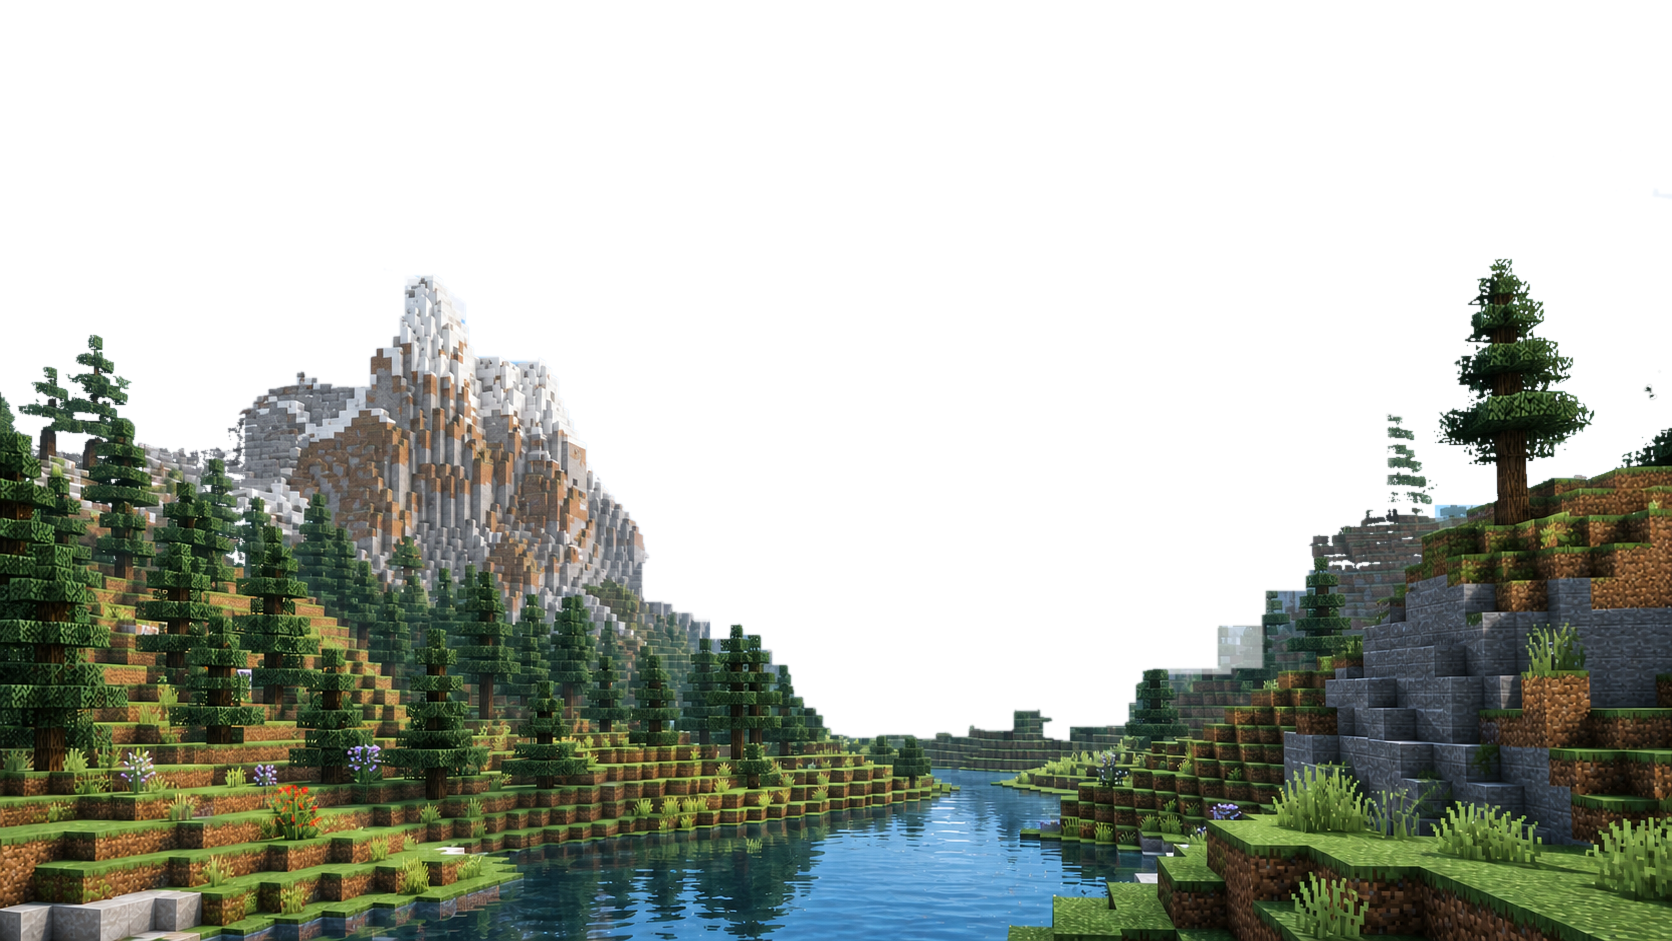
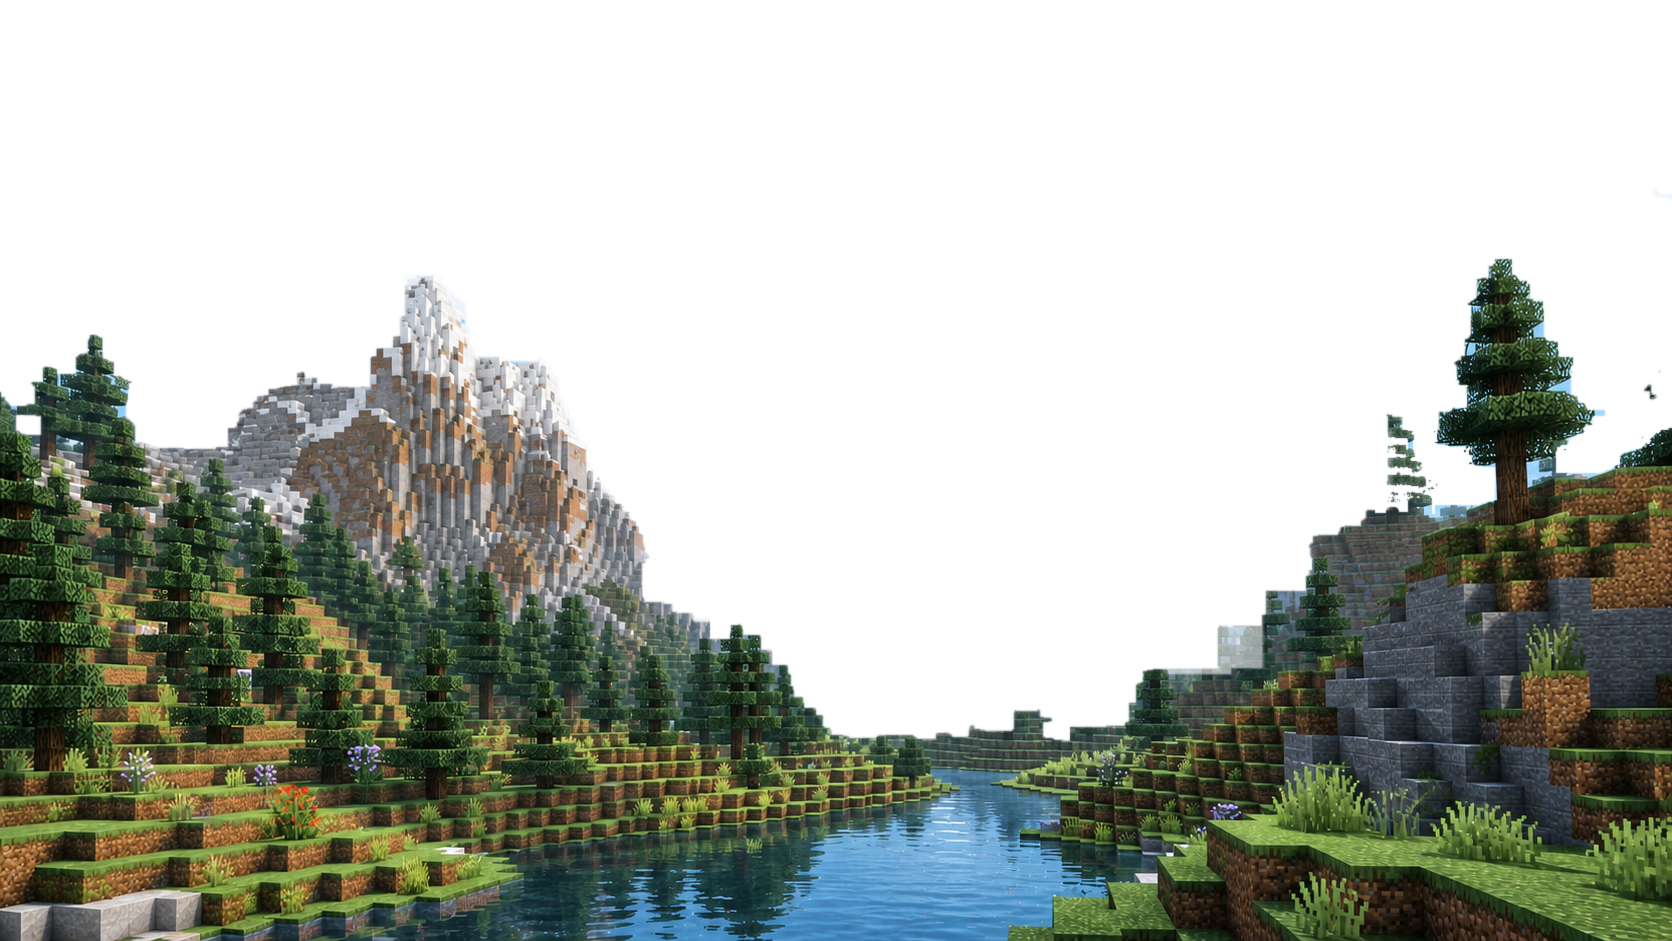
Refine mobile layout and shared terrain occlusion

diff --git a/public/assets/styles.css b/public/assets/styles.css
@@ -3564,6 +3564,22 @@ h1,h2,h3,
   .discord-avatars img{width:30px;height:30px}
 }
 
+@media(max-width:780px){
+  .mobile-nav-overlay .mobile-nav-panel{
+    --mobile-nav-panel-space:22px;
+    padding:var(--mobile-nav-panel-space);
+  }
+  .mobile-nav-panel .mobile-nav-close{
+    top:var(--mobile-nav-panel-space);
+    right:var(--mobile-nav-panel-space);
+    min-height:38px;
+    padding:7px 11px;
+  }
+  .mobile-nav-panel .mobile-nav-kicker{margin-right:92px}
+}
+
+@media(max-width:380px){.mobile-nav-panel{--mobile-nav-panel-space:18px}}
+
 /* Scroll-driven cinematic world experiment */
 .world-effects.cinematic-world{
   background-image:linear-gradient(180deg,var(--scene-edge-top,#429dd6),var(--scene-edge-mid,#66b5db) 52%,var(--scene-edge-bottom,#18372f));
@@ -3773,8 +3789,8 @@ body:not(.home-page) .subhero::after{background:linear-gradient(0deg,rgba(12,8,8
 .is-sun-idle .cinematic-sun .cinematic-orb-disc{animation:cinematic-sun-idle 6.5s ease-in-out infinite}
 
 .scene-debug-svg,.scene-debug-terrain,.scene-debug-sky{position:absolute;inset:0;width:100%;height:100%;z-index:8;pointer-events:none}
-.scene-debug-terrain{background:rgba(255,0,170,.24);-webkit-mask:url("minecraft-terrain-mask-v1.png?v=6") center/100% 100% no-repeat;mask:url("minecraft-terrain-mask-v1.png?v=6") center/100% 100% no-repeat}
-.scene-debug-sky{background:rgba(0,255,255,.28);-webkit-mask:url("minecraft-sky-mask-v1.png?v=6") center/100% 100% no-repeat;mask:url("minecraft-sky-mask-v1.png?v=6") center/100% 100% no-repeat}
+.scene-debug-terrain{background:rgba(255,0,170,.24);-webkit-mask:url("minecraft-terrain-mask-v1.png?v=7") center/100% 100% no-repeat;mask:url("minecraft-terrain-mask-v1.png?v=7") center/100% 100% no-repeat}
+.scene-debug-sky{background:rgba(0,255,255,.28);-webkit-mask:url("minecraft-sky-mask-v1.png?v=7") center/100% 100% no-repeat;mask:url("minecraft-sky-mask-v1.png?v=7") center/100% 100% no-repeat}
 .scene-debug-svg{overflow:visible;border:3px solid #00ffbb}
 .scene-debug-svg path{fill:none;stroke-width:5;stroke-dasharray:14 9}
 .debug-sun-path{stroke:#ffdf42}.debug-moon-path{stroke:#8fe5ff}
@@ -4032,6 +4048,165 @@ body:not(.home-page) .subhero::after{background:linear-gradient(0deg,rgba(12,8,8
 
 @media(prefers-reduced-motion:reduce){
   .cinematic-terrain,.cinematic-sunrise-terrain,.cinematic-sunset-terrain,.cinematic-night-terrain{transition:none}
+}
+
+/* Targeted mobile layout and summary-card interaction pass. */
+.summary-interactive,
+.showcase-panel.summary-interactive{
+  transform:none;
+  transition:transform .18s ease,border-color .18s ease,box-shadow .18s ease,background-color .18s ease;
+}
+
+.summary-interactive:focus-visible{
+  outline:2px solid #ff9a3b;
+  outline-offset:3px;
+  transform:translateY(-8px) scale(1.01);
+  border-color:rgba(255,211,106,.42);
+  box-shadow:0 24px 56px rgba(0,0,0,.34),0 0 28px rgba(255,138,0,.12);
+}
+
+@media(hover:hover) and (pointer:fine){
+  .summary-interactive:hover,
+  .showcase-panel.summary-interactive.is-raised:hover{
+    transform:translateY(-8px) scale(1.01);
+    border-color:rgba(255,211,106,.42);
+    box-shadow:0 24px 56px rgba(0,0,0,.34),0 0 28px rgba(255,138,0,.12);
+  }
+}
+
+@media(hover:none), (pointer:coarse){
+  .summary-interactive:hover,
+  .showcase-panel.summary-interactive.is-raised:hover{transform:none}
+}
+
+@media(max-width:780px){
+  :root{--mobile-action-bar-height:60px;--mobile-nav-panel-space:22px}
+
+  body.home-page{padding-bottom:0}
+
+  .home-page .site-header{
+    opacity:1;
+    pointer-events:auto;
+    padding-top:env(safe-area-inset-top);
+    background:linear-gradient(180deg,rgba(3,7,13,.58),rgba(3,7,13,.12));
+    backdrop-filter:blur(5px);
+  }
+
+  .home-page.is-past-deck .site-header{
+    background:rgba(8,10,15,.88);
+    backdrop-filter:blur(16px);
+  }
+
+  .home-page .site-header .nav-toggle{display:block}
+
+  .home-page .cinematic-hero-inner{
+    min-height:100dvh;
+    align-items:flex-start;
+    padding-top:calc(env(safe-area-inset-top) + 88px);
+    padding-bottom:calc(var(--mobile-action-bar-height) + env(safe-area-inset-bottom) + 26px);
+  }
+
+  .home-page .cinematic-hero-copy{margin-block:0 auto}
+
+  .home-page .live-status{
+    grid-template-columns:minmax(0,1fr) minmax(0,1fr);
+    gap:10px;
+  }
+
+  .home-page .live-ip-card,
+  .home-page .version-card{grid-column:1/-1}
+  .home-page .status-card{min-width:0;padding:14px}
+  .home-page .status-ip{white-space:normal;overflow-wrap:anywhere;font-size:1.38rem}
+  .home-page .version-card .status-value{white-space:normal;font-size:1.35rem}
+  .home-page .status-label{font-size:.7rem;line-height:1.25}
+  .home-page .status-badge{min-width:0;width:100%;padding-inline:8px}
+  .home-page .status-meta{display:flex;align-items:center;justify-content:space-between;gap:12px;flex-wrap:wrap}
+
+  .home-community-panel .discord-avatars{
+    display:grid;
+    grid-template-columns:repeat(6,minmax(0,1fr));
+    gap:8px;
+    max-height:none;
+    overflow:visible;
+  }
+
+  .home-community-panel .discord-avatars img{
+    width:100%;
+    height:auto;
+    aspect-ratio:1;
+    object-fit:cover;
+  }
+
+  .home-community-panel .discord-avatars img:nth-child(n+13){display:none}
+
+  body.about-page .side-rail{display:none}
+  body.about-page .article-layout{grid-template-columns:1fr}
+
+  .mobile-nav-panel{
+    --mobile-nav-panel-space:22px;
+    padding:var(--mobile-nav-panel-space);
+  }
+
+  .mobile-nav-close{
+    top:var(--mobile-nav-panel-space);
+    right:var(--mobile-nav-panel-space);
+    min-height:38px;
+    padding:7px 11px;
+  }
+
+  .mobile-nav-kicker{margin-right:92px}
+  .mobile-nav-external-actions{
+    display:grid;
+    grid-template-columns:1fr 1fr;
+    gap:9px;
+    margin-top:16px;
+    padding-top:15px;
+    border-top:1px solid rgba(255,255,255,.1);
+  }
+
+  .mobile-nav-external-actions a{
+    display:flex;
+    min-height:43px;
+    flex-direction:column;
+    align-items:center;
+    justify-content:center;
+    gap:2px;
+    padding:8px 11px;
+    border:1px solid rgba(255,255,255,.14);
+    border-radius:9px;
+    color:#fff;
+    font-weight:850;
+    text-decoration:none;
+  }
+
+  .mobile-nav-external-actions small{font-size:.58rem;letter-spacing:.08em;text-transform:uppercase;opacity:.67}
+  .mobile-nav-external-actions .mobile-nav-store{border-color:rgba(255,138,32,.42);background:rgba(255,112,24,.14)}
+  .mobile-nav-external-actions .mobile-nav-discord{border-color:rgba(126,139,255,.42);background:rgba(88,101,242,.16)}
+
+  .home-page .site-footer{
+    margin-bottom:0;
+    padding-bottom:calc(var(--mobile-action-bar-height) + env(safe-area-inset-bottom));
+    background:#050c08;
+  }
+
+  .home-page .mobile-join-bar{min-height:calc(var(--mobile-action-bar-height) + env(safe-area-inset-bottom));background:#050c08}
+}
+
+@media(max-width:620px) and (orientation:portrait){
+  .home-page .cinematic-hero-inner{padding-top:calc(env(safe-area-inset-top) + 78px)}
+  .home-page .cinematic-logo{margin-bottom:14px}
+  .home-page .cinematic-hero-copy h1{margin-top:14px;margin-bottom:14px}
+  .home-page .cinematic-hero-copy .lead{margin-bottom:18px}
+  .home-page .scroll-cue{margin-top:14px}
+}
+
+@media(max-width:380px){
+  .home-page .cinematic-hero-inner{padding-top:calc(env(safe-area-inset-top) + 72px)}
+  .mobile-nav-panel{--mobile-nav-panel-space:18px}
+}
+
+@media(prefers-reduced-motion:reduce){
+  .summary-interactive{transition:none}
 }
 
 /* Stable mobile navigation and informational-page header */

diff --git a/public/assets/script.js b/public/assets/script.js
@@ -285,6 +285,9 @@ function initMobileNavigation() {
   mainTitle.textContent = "Menu";
   const mainLinks = document.createElement("div");
   mainLinks.className = "mobile-nav-links";
+  const externalActions = document.createElement("div");
+  externalActions.className = "mobile-nav-external-actions";
+  externalActions.setAttribute("aria-label", "External links");
 
   const communityPanel = document.createElement("div");
   communityPanel.className = "mobile-nav-view mobile-nav-community";
@@ -308,7 +311,17 @@ function initMobileNavigation() {
 
   [...nav.children].forEach((item) => {
     if (item.matches("a")) {
-      mainLinks.append(cloneLink(item));
+      const clonedLink = cloneLink(item);
+      const target = item.dataset.linkTarget;
+      if (target === "store" || target === "discord") {
+        clonedLink.classList.add(`mobile-nav-${target}`);
+        const externalLabel = document.createElement("small");
+        externalLabel.textContent = "External ↗";
+        clonedLink.append(externalLabel);
+        externalActions.append(clonedLink);
+      } else {
+        mainLinks.append(clonedLink);
+      }
       return;
     }
     if (!item.matches(".nav-dropdown")) return;
@@ -321,7 +334,7 @@ function initMobileNavigation() {
     item.querySelectorAll(".nav-menu a").forEach((link) => communityLinks.append(cloneLink(link)));
   });
 
-  mainPanel.append(mainTitle, mainLinks);
+  mainPanel.append(mainTitle, mainLinks, externalActions);
   communityPanel.append(backButton, communityTitle, communityLinks);
   panel.append(closeButton, mainPanel, communityPanel);
   overlay.append(panel);
@@ -1597,7 +1610,7 @@ function initWorldEffects() {
   const foregrounds = Object.fromEntries(sceneDefinitions.map(([name]) => {
     const image = document.createElement("img");
     image.className = `cinematic-foreground cinematic-foreground-${name}`;
-    image.src = `assets/minecraft-terrain-foreground-${name}-v1.png?v=6`;
+    image.src = `assets/minecraft-terrain-foreground-${name}-v1.png?v=7`;
     image.alt = "";
     image.decoding = "async";
     return [name, image];

diff --git a/public/plugins.html b/public/plugins.html
@@ -10,7 +10,7 @@
   <link rel="preconnect" href="https://fonts.googleapis.com" />
   <link rel="preconnect" href="https://fonts.gstatic.com" crossorigin />
   <link href="https://fonts.googleapis.com/css2?family=Inter:wght@400;500;650;800;900&display=swap" rel="stylesheet" />
-  <link rel="stylesheet" href="assets/styles.css?v=vision56" />
+  <link rel="stylesheet" href="assets/styles.css?v=vision58" />
 </head>
 <body class="about-page">
 <a class="skip-link" href="#main-content">Skip to main content</a>
@@ -69,17 +69,17 @@
 
   <section class="page-section about-showcase-section" aria-label="Server identity highlights">
     <div class="container about-showcase">
-      <article class="showcase-panel">
+      <article class="showcase-panel summary-interactive" tabindex="0">
         <span class="showcase-number">01</span>
         <h2>Your progress matters</h2>
         <p>The world is not built around short seasons. Bases, routes, ruins, and old conflicts remain meaningful over time.</p>
       </article>
-      <article class="showcase-panel is-raised">
+      <article class="showcase-panel summary-interactive" tabindex="0">
         <span class="showcase-number">02</span>
         <h2>Risk is part of survival</h2>
         <p>The wilderness has no land claims. Where you build, what you reveal, and who you trust all have consequences.</p>
       </article>
-      <article class="showcase-panel">
+      <article class="showcase-panel summary-interactive" tabindex="0">
         <span class="showcase-number">03</span>
         <h2>More ways to play</h2>
         <p>Markets, guild progression, PvP arenas, KOTH, duels, and events add direction without replacing normal survival.</p>
@@ -178,7 +178,7 @@
 </footer>
 
 <script src="assets/site-config.js?v=vision41" defer></script>
-<script src="assets/script.js?v=vision56" defer></script>
+<script src="assets/script.js?v=vision58" defer></script>
 </body>
 </html>
 

diff --git a/public/rules.html b/public/rules.html
@@ -10,7 +10,7 @@
   <link rel="preconnect" href="https://fonts.googleapis.com" />
   <link rel="preconnect" href="https://fonts.gstatic.com" crossorigin />
   <link href="https://fonts.googleapis.com/css2?family=Inter:wght@400;500;650;800;900&display=swap" rel="stylesheet" />
-  <link rel="stylesheet" href="assets/styles.css?v=vision56" />
+  <link rel="stylesheet" href="assets/styles.css?v=vision58" />
 </head>
 <body class="rules-page">
 <a class="skip-link" href="#main-content">Skip to main content</a>
@@ -57,15 +57,15 @@
   </section>
 
   <section class="container rules-principles" aria-label="Core expectations">
-    <article>
+    <article class="summary-interactive" tabindex="0">
       <span>01</span>
       <div><strong>Play fair</strong><p>Do not cheat, exploit bugs, or create an unfair advantage.</p></div>
     </article>
-    <article>
+    <article class="summary-interactive" tabindex="0">
       <span>02</span>
       <div><strong>Treat people properly</strong><p>No slurs, harassment, threats, or targeted abuse.</p></div>
     </article>
-    <article>
+    <article class="summary-interactive" tabindex="0">
       <span>03</span>
       <div><strong>Ask before acting</strong><p>If a rule or mechanic is unclear, open a ticket first.</p></div>
     </article>
@@ -200,6 +200,6 @@
 </footer>
 
 <script src="assets/site-config.js?v=vision43" defer></script>
-<script src="assets/script.js?v=vision56" defer></script>
+<script src="assets/script.js?v=vision58" defer></script>
 </body>
 </html>

diff --git a/public/celestial-test.html b/public/celestial-test.html
@@ -6,7 +6,7 @@
   <meta name="robots" content="noindex,nofollow" />
   <meta name="description" content="Private visual test page for Enthusia SMP day and night background motion." />
   <title>Enthusia Celestial Motion Test</title>
-  <link rel="stylesheet" href="assets/styles.css?v=vision56" />
+  <link rel="stylesheet" href="assets/styles.css?v=vision58" />
   <style>
     body{min-height:600vh;position:relative}
     .phase-marker{position:absolute;left:0;width:1px;height:1px;pointer-events:none}
@@ -23,6 +23,6 @@
   <i class="phase-marker" id="phase-100" style="top:500vh"></i>
   <div class="motion-test-note">Celestial motion test — scroll from top to bottom to inspect the complete day, sunset, Milky Way night, and sunrise cycle.</div>
   <script src="assets/site-config.js?v=vision43" defer></script>
-  <script src="assets/script.js?v=vision57" defer></script>
+  <script src="assets/script.js?v=vision58" defer></script>
 </body>
 </html>

diff --git a/public/index.html b/public/index.html
@@ -19,7 +19,7 @@
   <link rel="preconnect" href="https://fonts.googleapis.com" />
   <link rel="preconnect" href="https://fonts.gstatic.com" crossorigin />
   <link href="https://fonts.googleapis.com/css2?family=Inter:wght@400;500;650;800;900&display=swap" rel="stylesheet" />
-  <link rel="stylesheet" href="assets/styles.css?v=vision56" />
+  <link rel="stylesheet" href="assets/styles.css?v=vision58" />
 </head>
 <body class="home-page">
 <a class="skip-link" href="#main-content">Skip to main content</a>
@@ -315,7 +315,7 @@
 </div>
 
 <script src="assets/site-config.js?v=vision43" defer></script>
-<script src="assets/script.js?v=vision57" defer></script>
+<script src="assets/script.js?v=vision58" defer></script>
 </body>
 </html>
 

diff --git a/scripts/generate-terrain-mask.py b/scripts/generate-terrain-mask.py
@@ -26,6 +26,7 @@ red, green, blue = rgb[..., 0], rgb[..., 1], rgb[..., 2]
 # silhouette as the base for this pass instead of broadly re-segmenting it.
 sky = (blue > red * 1.04) & (blue > green * 0.88) & (blue - red > 12)
 terrain_image = Image.open(BASE_FOREGROUND).convert("RGBA").getchannel("A")
+source_alpha = np.asarray(terrain_image).copy()
 
 
 def close_region(image, box, size):
@@ -45,9 +46,9 @@ close_region(terrain_image, (1070, 430, 1672, 941), 61)
 
 alpha = np.asarray(terrain_image).copy()
 
-# Re-open true blue/cyan sky pixels inside the three foreground canopies after
-# morphology. This targeted subtraction preserves solid leaves and branches but
-# prevents enclosed daytime sky from being baked into the foreground cutout.
+# Re-open only gaps that were already transparent in the established foreground.
+# Colour alone cannot determine alpha here: cyan leaf highlights are still solid
+# foliage, especially when the moon makes small classification errors obvious.
 for left, top, right, bottom in (
     (0, 330, 245, 650),
     (1180, 360, 1435, 570),
@@ -55,7 +56,8 @@ for left, top, right, bottom in (
 ):
     region_sky = sky[top:bottom, left:right]
     alpha_region = alpha[top:bottom, left:right]
-    alpha_region[region_sky] = 0
+    source_region = source_alpha[top:bottom, left:right]
+    alpha_region[region_sky & (source_region == 0)] = 0
 
 rgba = np.full((height, width, 4), 255, dtype=np.uint8)
 soft_alpha = np.asarray(Image.fromarray(alpha, mode="L").filter(ImageFilter.GaussianBlur(0.65)))
